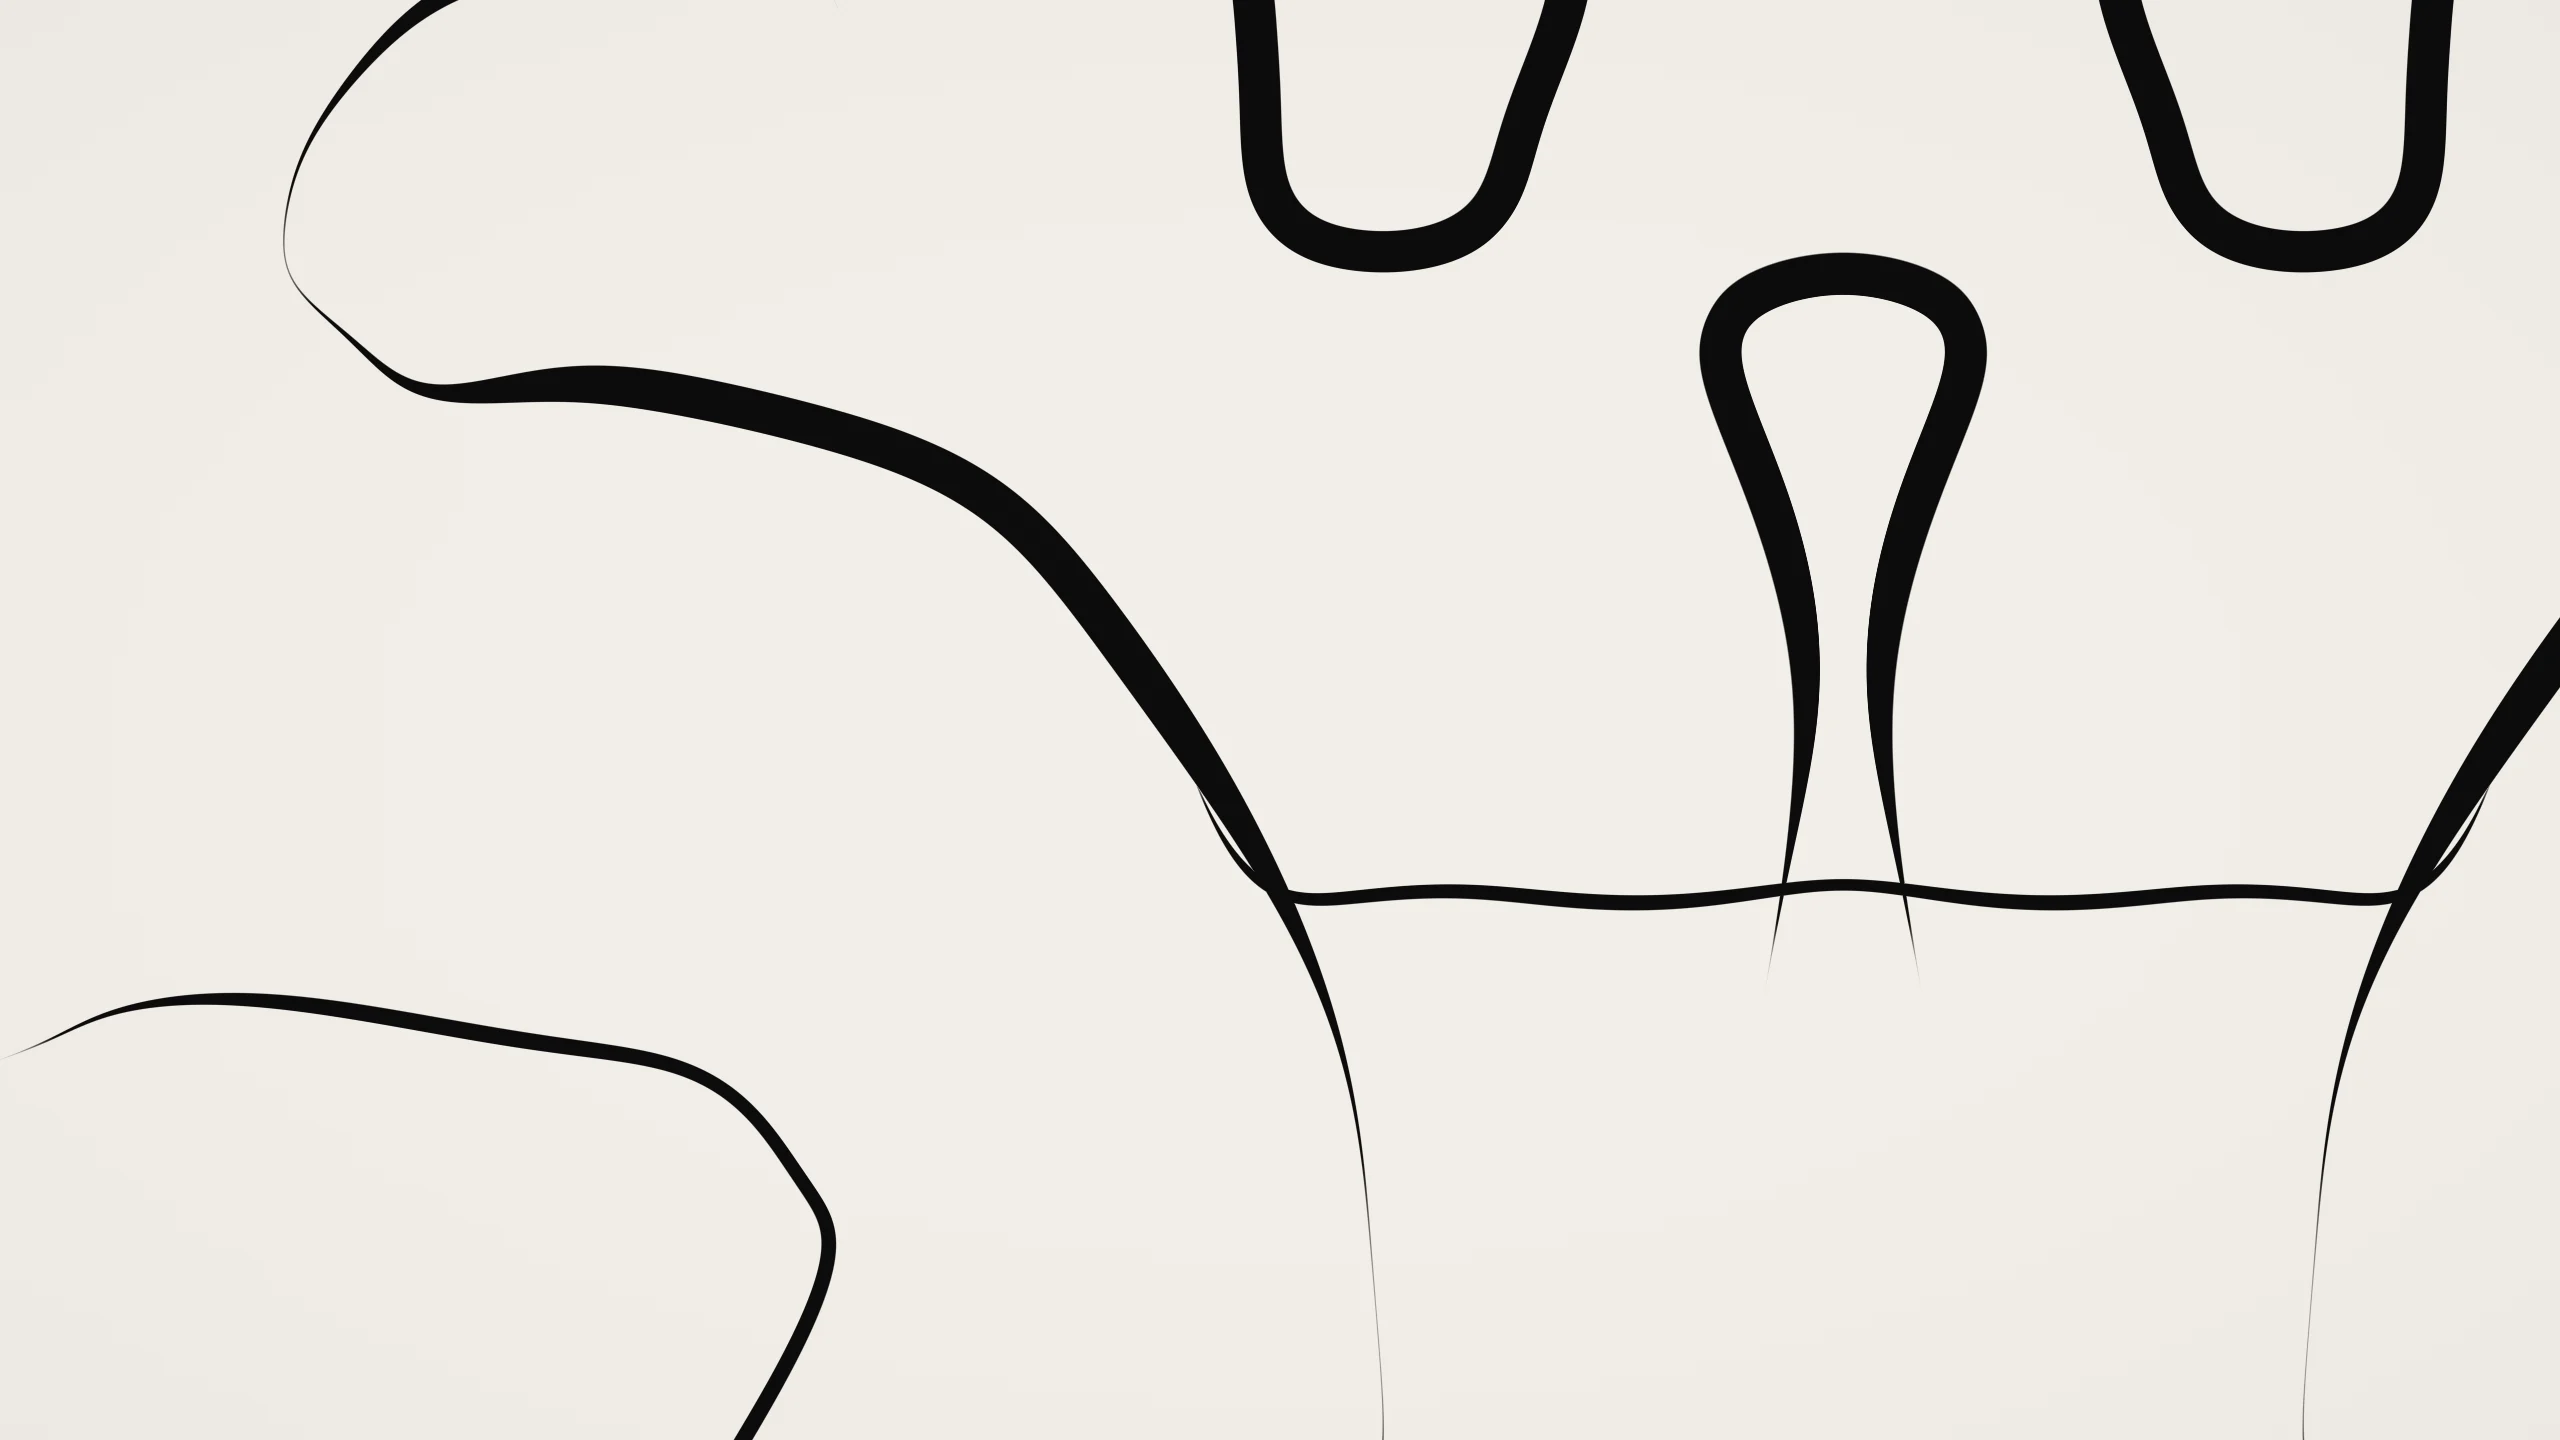
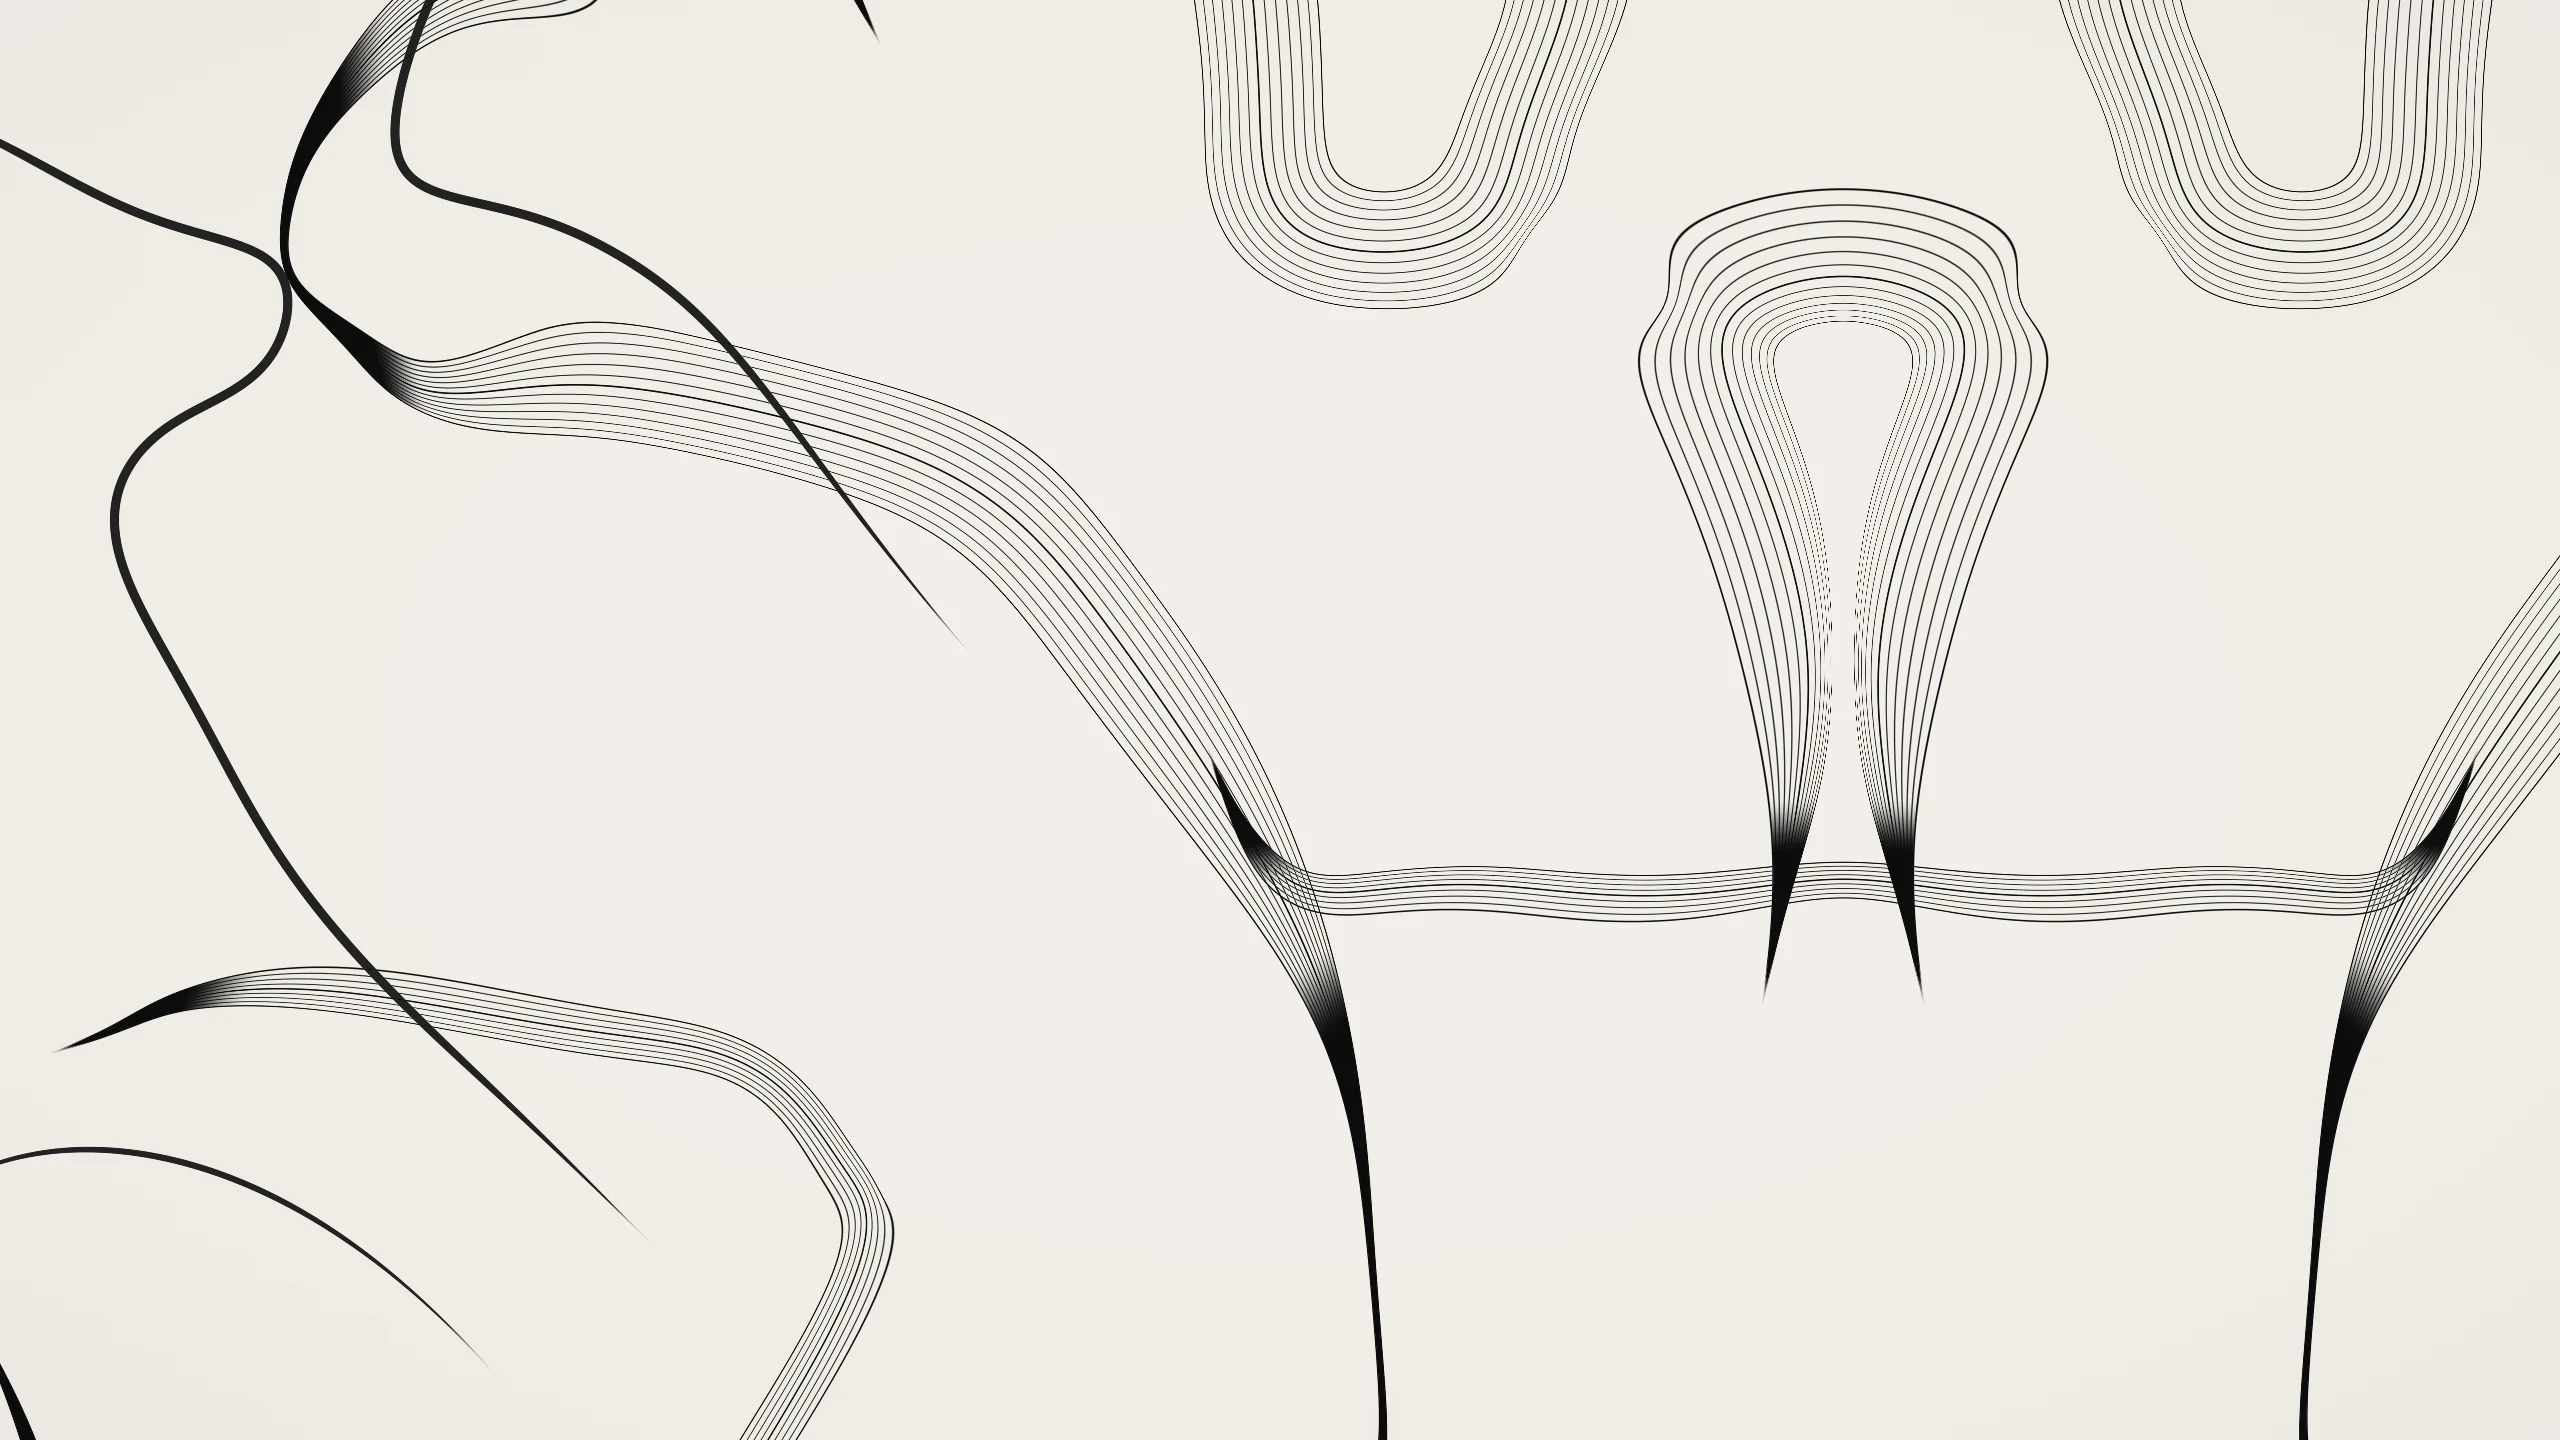
Hero: ornamento gravado em linhas finas que convergem em ponta, só em preto

diff --git a/assets/js/tinta.js b/assets/js/tinta.js
@@ -1,8 +1,8 @@
-/* Fundo do hero: ornamento de nanquim vivo, como os flashs do Taffa no papel branco.
-   Poucos traços pretos, grossos no meio e afinando em ponta, que nascem de um campo liso (simplex) e mudam
-   de forma devagar. Cada traço é a curva de nível f = 0 do campo; a distância até ela é f/|∇f|, então a
-   espessura e a borda saem exatas, com antialias de um pixel em qualquer resolução. Tudo espelhado num eixo
-   vertical, como os ornamentos simétricos dele.
+/* Fundo do hero: ornamento gravado, como os flashs do Taffa e os espelhos que ele grava à mão.
+   Corpos de ornamento que nascem de um campo liso (simplex), grossos no meio e afinando em ponta, desenhados
+   só com linhas finas: contorno, espinha e um feixe de linhas paralelas que converge na ponta, como buril.
+   Cada corpo é a curva de nível f = 0 do campo; a distância até ela é f/|∇f|, então as linhas saem exatas,
+   com antialias de um pixel em qualquer resolução. Tudo espelhado num eixo vertical e mudando devagar.
    tintaGL(canvas, {eixo}) -> {tamanho(w,h), desenhar(fase, eixo)}; fase em [0, 2π) fecha o loop sem emenda.
    O mesmo shader gera os MP4 do celular (tools/gerar_video.py). */
 (function (g) {
@@ -30,7 +30,7 @@ float sn(vec2 v){
 }
 
 vec2 C; /* (cos, sin) da fase: o movimento anda num círculo e o loop fecha */
-/* campo dos traços: grande, lento, um pouco torcido */
+/* campo dos corpos: grande, lento, um pouco torcido */
 float campo(vec2 p, float k){
   vec2 w=vec2(sn(p*.55+C*.35+k),sn(p*.55+vec2(4.1,7.3)-C.yx*.35-k));
   p+=w*.42;
@@ -45,29 +45,53 @@ vec2 mapa(vec2 fc){
   float dx=(fc.x-uEixo*uRes.x)/esc;
   return vec2(sqrt(dx*dx+.0025),(fc.y-.5*uRes.y)/esc)*1.1;
 }
-/* um traço do campo k, na escala s e deslocamento o; w = meia largura em unidades do campo.
-   O gradiente é medido na tela, depois do espelho: assim a distância em pixels é exata também no eixo,
-   onde o dobramento achata o campo (medir antes do espelho enchia ali umas bolinhas pretas). */
+/* um corpo do campo k, na escala s e deslocamento o; w = meia largura em unidades do campo.
+   Devolve a distância em pixels até a espinha (x) e a meia largura em pixels (y). O gradiente é medido na
+   tela, depois do espelho: assim a distância é exata também no eixo, onde o dobramento achata o campo. */
 float F(vec2 fc, float k, float s, vec2 o){ return campo(mapa(fc)*s+o,k); }
-float traco(vec2 fc, float k, float s, vec2 o, float w, float px){
-  const float h=1.5;
-  float f=F(fc,k,s,o);
-  vec2 g=vec2(F(fc+vec2(h,0.),k,s,o)-F(fc-vec2(h,0.),k,s,o),F(fc+vec2(0.,h),k,s,o)-F(fc-vec2(0.,h),k,s,o))/(2.*h);
+vec2 corpoPx(vec2 fc, float k, float s, vec2 o, float w, float px){
+  /* gradiente por três amostras a meio pixel, centradas no pixel (dois cálculos a menos que a diferença central) */
+  const float h=.5;
+  float fa=F(fc+vec2(-h,-h)*.5,k,s,o), fb=F(fc+vec2(h,-h)*.5,k,s,o), fd=F(fc+vec2(-h,h)*.5,k,s,o);
+  vec2 g=vec2(fb-fa,fd-fa)/h;
+  float f=(fb+fd)*.5;
   /* piso no gradiente: perto de um pico do campo o laço fica vazado em vez de virar mancha */
-  float d=abs(f)/max(length(g),.4*px*s);
+  float d=abs(f)/max(length(g),.12*px*s);
   float t=corpo(mapa(fc)*s+o,k);
-  float lw=w*pow(t,1.6)/(px*s);          /* meia largura em pixels */
-  /* a ponta some: abaixo de um pixel o traço vai ficando transparente em vez de virar fio */
-  return (1.-smoothstep(lw-.75,lw+.75,d))*smoothstep(0.,1.2,lw);
+  return vec2(d,w*pow(t,1.35)/(px*s));
+}
+/* linha fina de meia largura hw (px), com antialias de um pixel */
+float fio(float dist, float hw){ return 1.-smoothstep(hw-.55,hw+.55,dist); }
+
+/* gravura: o corpo é desenhado só com linhas finas, como buril em metal ou os espelhos gravados do Taffa.
+   Contorno, espinha mais marcada e n linhas de cada lado, sempre as mesmas: elas se juntam sozinhas quando
+   o corpo afina, e quando ficam a menos de ~2 px uma da outra viram tinta cheia (a ponta fecha em preto, sem moiré). */
+float gravura(vec2 dl, float n, float hw){
+  float d=dl.x, lw=dl.y;
+  if(lw<.4) return 0.;
+  float dentro=1.-smoothstep(lw-.6,lw+.6,d);
+  float contorno=fio(abs(d-lw),hw*1.15)*smoothstep(.6,2.5,lw);
+  float e=lw/n;
+  float hh=abs(fract(d/e+.5)-.5)*e;
+  float junto=1.-smoothstep(2.4,4.2,e);
+  float feixe=mix(fio(hh,hw*.85)*.9,1.,junto)*dentro;
+  float espinha=fio(d,hw*1.35);
+  return clamp(max(max(contorno,espinha),feixe),0.,1.)*smoothstep(.4,1.6,lw);
 }
 
 void main(){
   vec2 fc=gl_FragCoord.xy;
   C=vec2(cos(uFase),sin(uFase));
-  float px=1.1/min(uRes.x,uRes.y);
+  float esc=min(uRes.x,uRes.y);
+  float px=1.1/esc;
+  /* espessura das linhas proporcional ao tamanho: o desenho é o mesmo em 1x, 2x e no vídeo */
+  float hw=max(.42,esc*.00042);
 
-  /* dois traços: um largo e um fino, em escalas diferentes */
-  float tinta=max(traco(fc,0.,1.,vec2(0.),.016,px),traco(fc,1.7,1.3,vec2(2.3,-1.1),.0085,px));
+  /* corpo largo gravado, corpo médio gravado e um fio solto, em escalas diferentes */
+  float tinta=gravura(corpoPx(fc,0.,1.,vec2(0.),.05,px),6.,hw);
+  tinta=max(tinta,gravura(corpoPx(fc,1.7,1.35,vec2(2.3,-1.1),.026,px),4.,hw*.9));
+  vec2 f3=corpoPx(fc,3.4,.8,vec2(-1.7,3.2),.0028,px);
+  tinta=max(tinta,fio(f3.x,max(f3.y,0.))*smoothstep(.2,1.,f3.y)*.9);
 
   vec3 papel=vec3(.949,.937,.910);
   vec3 nanquim=vec3(.047,.047,.051);

diff --git a/index.html b/index.html
@@ -354,7 +354,7 @@
   <button class="gal-seta gal-prox" aria-label="Próxima"><svg><use href="#seta"/></svg></button>
 </div>
 
-<script src="assets/js/tinta.js?v=1" defer></script>
+<script src="assets/js/tinta.js?v=2" defer></script>
 <script src="assets/js/site.js?v=2" defer></script>
 </body>
 </html>

diff --git a/tools/gerar_video.py b/tools/gerar_video.py
@@ -19,7 +19,7 @@ def renderizar(nome, w, h, eixo, poster, qp):
     enc = subprocess.Popen([imageio_ffmpeg.get_ffmpeg_exe(), '-y', '-loglevel', 'error', '-f', 'image2pipe', '-framerate', str(FPS), '-c:v', 'png', '-i', '-',
         '-c:v', 'libx264', '-preset', 'slow', '-crf', '22', '-pix_fmt', 'yuv420p', '-profile:v', 'high', '-movflags', '+faststart', '-an', mp4], stdin=subprocess.PIPE)
     with sync_playwright() as p:
-        b = p.chromium.launch(channel='msedge', args=['--use-angle=swiftshader', '--enable-unsafe-swiftshader'])
+        b = p.chromium.launch(channel='msedge', args=['--use-angle=d3d11', '--enable-gpu', '--ignore-gpu-blocklist'])
         pg = b.new_page(viewport={'width': w, 'height': h})
         pg.set_content(f'<body style="margin:0"><canvas id="c" width="{w}" height="{h}"></canvas></body>')
         pg.add_script_tag(path=os.path.join(SITE, 'assets', 'js', 'tinta.js'))
@@ -36,7 +36,7 @@ def renderizar(nome, w, h, eixo, poster, qp):
 def poster_desktop():
     """Pôster do desktop (antes do WebGL carregar e na chamada final), com o eixo atrás da foto."""
     with sync_playwright() as p:
-        b = p.chromium.launch(channel='msedge', args=['--use-angle=swiftshader', '--enable-unsafe-swiftshader'])
+        b = p.chromium.launch(channel='msedge', args=['--use-angle=d3d11', '--enable-gpu', '--ignore-gpu-blocklist'])
         pg = b.new_page(viewport={'width': 2560, 'height': 1440})
         pg.set_content('<body style="margin:0"><canvas id="c" width="2560" height="1440"></canvas></body>')
         pg.add_script_tag(path=os.path.join(SITE, 'assets', 'js', 'tinta.js'))

diff --git a/README.md b/README.md
@@ -7,7 +7,7 @@ Feito pela [L R G Z](https://lrgz.com.br). Publicado em https://azeugral.github.
 
 - **Logo:** a logo "Taffa" enviada pelo cliente (2000 px), vetorizada por `tools/vetorizar.py` (origem `_ref/logo-cliente.webp`).
 - **Paleta:** papel `#f2efe8`, nanquim `#0c0c0d` e as três tintas que ele oferece em todo flash: vermelho `#c1121c` e azul `#1d40d2`.
-- **Fundo do hero:** `assets/js/tinta.js`, ornamento de nanquim vivo: só preto no papel, poucos traços que afinam em ponta, espelhados atrás da foto e mudando devagar (loop de 50 s). No desktop roda ao vivo na resolução da tela; no toque entra o MP4 de `tools/gerar_video.py`. A versão anterior (suminagashi colorido) foi trocada a pedido.
+- **Fundo do hero:** `assets/js/tinta.js`, ornamento gravado: corpos de ornamento desenhados só com linhas finas (contorno, espinha e feixe paralelo que converge em ponta preta, como buril), espelhados atrás da foto e mudando devagar (loop de 50 s). No desktop roda ao vivo na resolução da tela; no toque entra o MP4 de `tools/gerar_video.py`. A versão anterior (suminagashi colorido) foi trocada a pedido.
 - **Fontes:** Unbounded, IBM Plex Sans e JetBrains Mono.
 - **Favicon:** o T da logo, em nanquim sobre o papel (`tools/favicon.py`).
 
